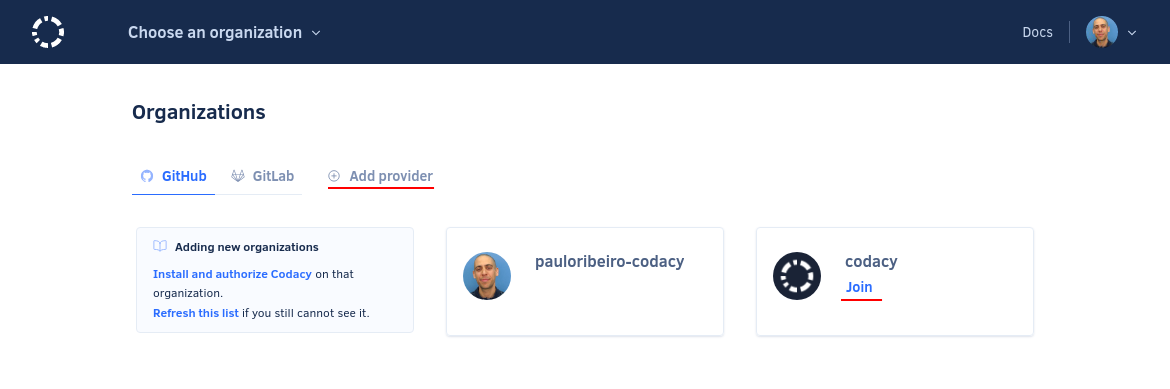
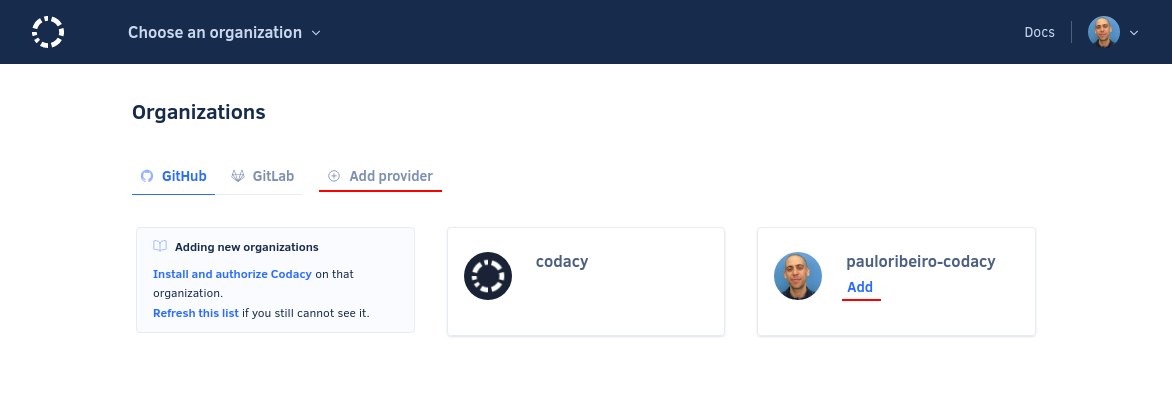
fix: Update screenshot to show adding an organization

diff --git a/docs/organizations/what-are-synced-organizations.md b/docs/organizations/what-are-synced-organizations.md
@@ -13,6 +13,7 @@ To add a new organization to Codacy, select **Add organization** on the navigati
 This opens the list of organizations on your Git providers. The organizations with the same name as your Git provider username contain your personal repositories.
 
 -   To add a new organization to Codacy, click the link **Add** for that organization.
+-   To join an organization that's already on Codacy, click the link **Join** for that organization.
 -   To add organizations from a Git provider not yet listed on this page, click **Add provider** and give the [necessary permissions](../getting-started/which-permissions-does-codacy-need-from-my-account.md) for Codacy to sync with the new Git provider and display your organizations.
 
 ![Adding an organization](images/organization-add.png)

diff --git a/docs/faq/general/why-cant-i-see-my-organization.md b/docs/faq/general/why-cant-i-see-my-organization.md
@@ -6,7 +6,7 @@ If you don't see your organization on Codacy, try the following steps:
 2.  **If your are using GitHub Apps,** [install Codacy on your organization](https://github.com/apps/codacy-production/installations/new).
 3.  Refresh the list of organizations on Codacy by clicking **refresh this list** on the organizations list page:
 
-    ![Refresh the list of organizations](images/organization-missing.png)
+    ![Refresh the list of organizations](images/organization-refresh-list.png)
 
 4.  Revoke Codacy's OAuth application on the Git provider website and log in again to Codacy.
 
